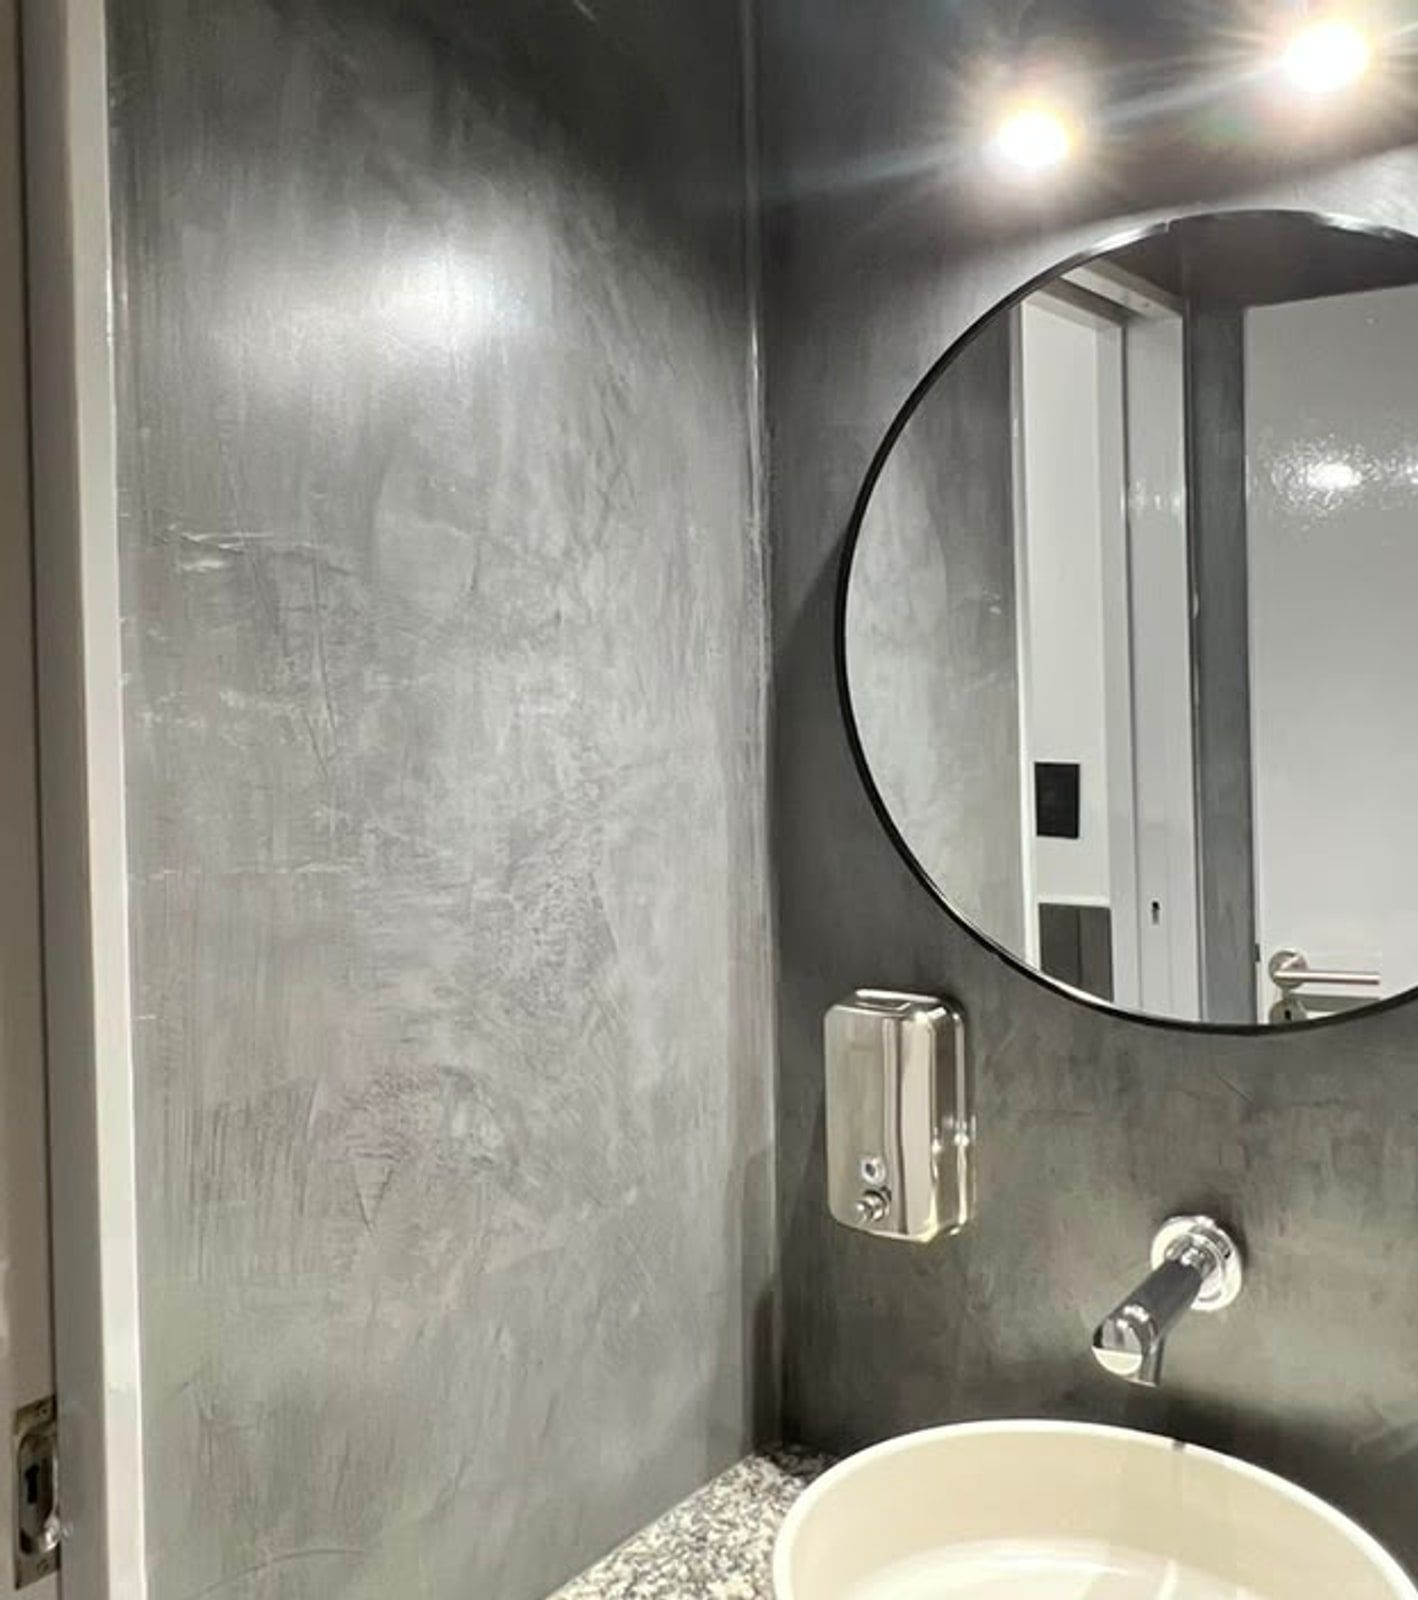
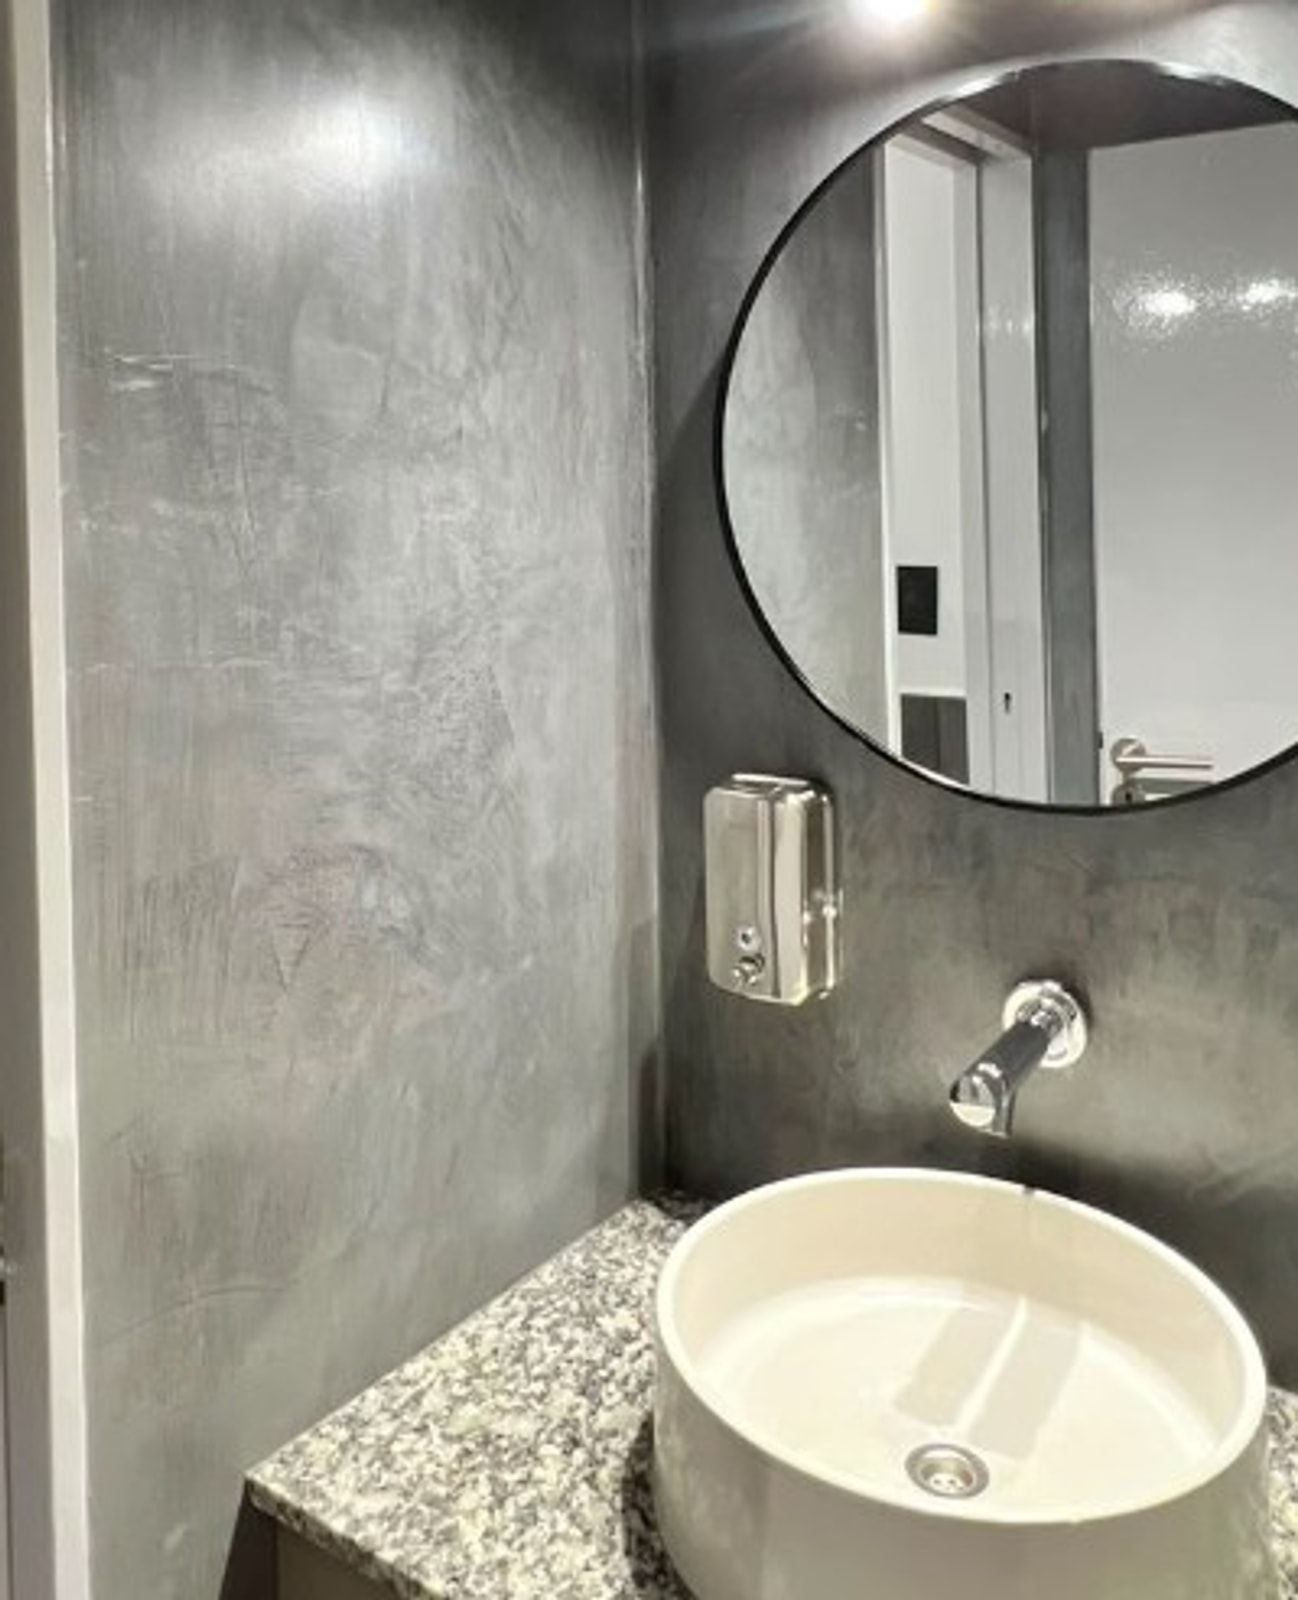
Add four client installation photos to the gallery.
Crop each shot around the installed bacha for the Clientes section.

diff --git a/src/lib/gallery.ts b/src/lib/gallery.ts
@@ -41,4 +41,5 @@ export const productPhotos = {
   clienteCircular: "/gallery/clientes/cliente-circular-gris.jpg",
   clienteClara: "/gallery/clientes/cliente-circular-clara.jpg",
   clienteMarmol: "/gallery/clientes/cliente-oval-marmol.jpg",
+  clienteMarmolBano: "/gallery/clientes/cliente-oval-marmol-bano.jpg",
 };

diff --git a/src/lib/products.ts b/src/lib/products.ts
@@ -43,6 +43,7 @@ export const products: Product[] = [
       productPhotos.ovalMarmolOscuro,
       productPhotos.ovalMarmolHumo,
       productPhotos.clienteMarmol,
+      productPhotos.clienteMarmolBano,
     ],
     specs: {
       dimensions: "Consultar medidas",
